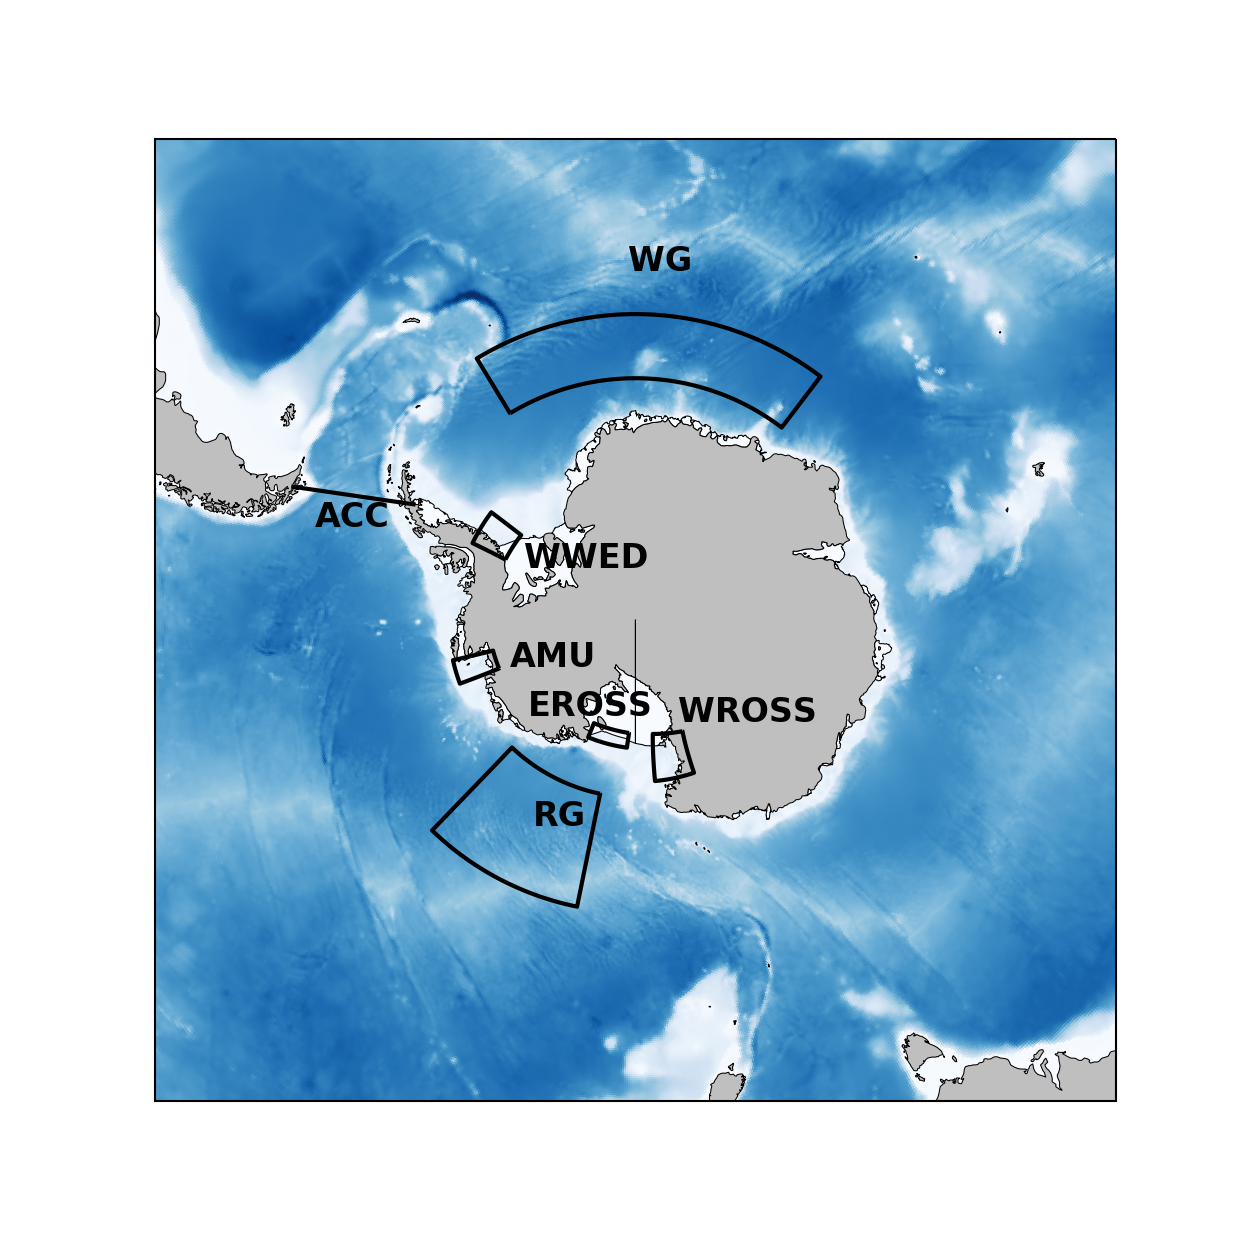
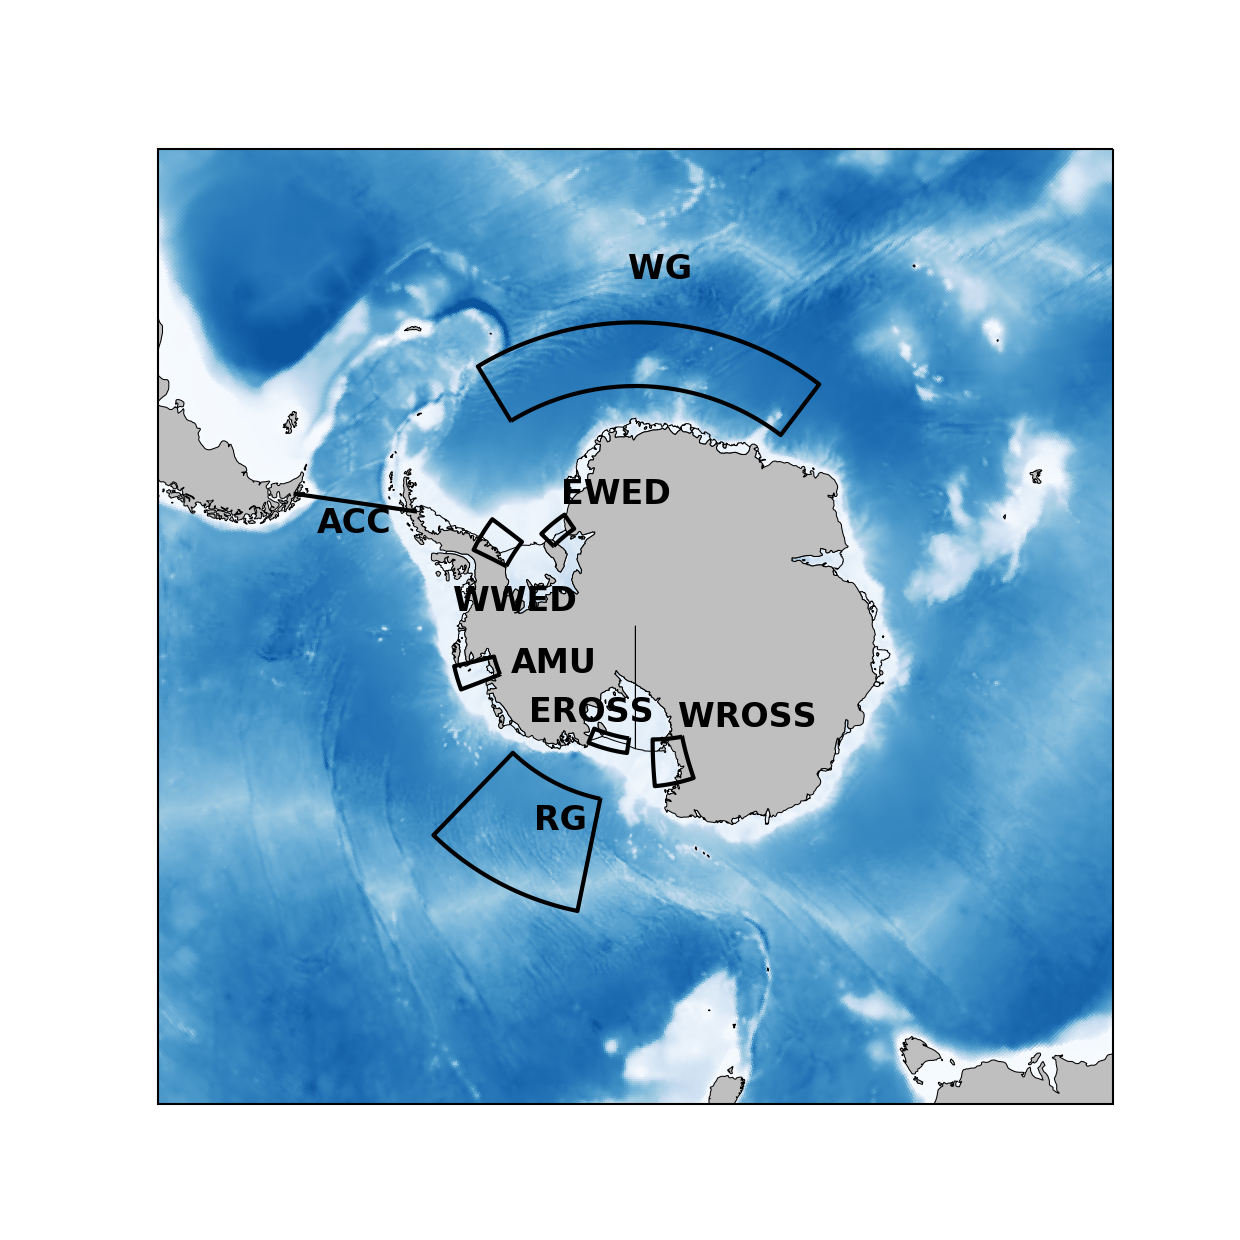
various changes: change target node, obs management, ...

Changed region(s): [[0.1226, 0.0919, 0.9194, 0.8887], [0.4597, 0.7968, 0.5516, 0.8887], [0.2145, 0.521, 0.2452, 0.5516]]

diff --git a/SCRIPT/plot_box_VALSO.py b/SCRIPT/plot_box_VALSO.py
@@ -35,7 +35,7 @@ def add_land_features(ax,cfeature_lst):
         elif cfeat=='bathy_z3000':
             feature = cartopy.feature.NaturalEarthFeature('physical', 'bathymetry_H_3000'          , '10m',facecolor='none',edgecolor='k')
         else:
-            print 'feature unknown : '+cfeat
+            print('feature unknown : '+cfeat)
             sys.exit(42)
         ax.add_feature(feature,linewidth=0.5)
 
@@ -47,28 +47,25 @@ class box(object):
         self.ymax=corner[3]-1
         self.name=name
 
-cfile='/data/cr1/pmathiot/MESH_MASK/bathymetry_eORCA025-GO6.nc'
+cfile='eORCA025.L121-OPM020/mask.nc'
 ncid   = nc.Dataset(cfile)
-bathy = ncid.variables['Bathymetry'][0:-2,:]
-ncid.close()
-cfile='/data/cr1/pmathiot/MESH_MASK/mesh_mask_eORCA025-GO6.nc'
+bathy = ncid.variables['bathy_metry'][:,0:-2,:].squeeze()
 ncid   = nc.Dataset(cfile)
 lon = ncid.variables['nav_lon'][0:-2,:]
 lat = ncid.variables['nav_lat'][0:-2,:]
 delta_lon=np.abs(np.diff(lon))
 j_lst,i_lst=np.nonzero(delta_lon>180)
-print j_lst.shape, i_lst.shape
 for idx in range(0,len(j_lst)):
     lon[j_lst[idx], i_lst[idx]+1:] += 360
-print lon.shape, lat.shape, bathy.shape
 
-box_lst=[None]*6
-box_lst[0]=box([710,741,202,266],'AMU')
-box_lst[1]=box([891,938,204,258],'WWED')
-box_lst[2]=box([347,404,150,233],'WROSS')
-box_lst[3]=box([448,519,152,180],'EROSS')
-box_lst[4]=box([1025,1300,325,380],'WG')
-box_lst[5]=box([476,607 ,254,370],'RG')
+box_lst=[]
+box_lst.append(box([710,741,202,266],'AMU'))
+box_lst.append(box([891,938,204,258],'WWED'))
+box_lst.append(box([347,404,150,233],'WROSS'))
+box_lst.append(box([448,519,152,180],'EROSS'))
+box_lst.append(box([1025,1300,325,380],'WG'))
+box_lst.append(box([476,607 ,254,370],'RG'))
+box_lst.append(box([968,1020,159,190],'EWED'))
 
 mask=np.zeros(shape=bathy.shape)
 for box in box_lst:
@@ -77,10 +74,11 @@ for box in box_lst:
 proj=ccrs.Stereographic(central_latitude=-90.0, central_longitude=0.0)
 XY_lim=[-180, 180, -90, -45]
 plt.figure(figsize=np.array([210, 210]) / 25.4)
-ax=plt.subplot(1, 1, 1, projection=proj, axisbg='0.75')
+ax=plt.subplot(1, 1, 1, projection=proj)
 #ax=plt.subplot(1, 1, 1)
 add_land_features(ax,['isf','lakes','land'])
-print np.max(bathy), np.min(bathy)
+
+print(lon.shape, lat.shape, bathy.shape)
 ax.pcolormesh(lon,lat,bathy,cmap='Blues',vmin=0,vmax=7000,transform=ccrs.PlateCarree(),rasterized=True)
 
 ax.contour(lon,lat,mask,levels=[0.99, 2.0],transform=ccrs.PlateCarree(),colors='k',rasterized=True,linewidths=2)
@@ -89,11 +87,12 @@ ax.plot([lon[420,874], lon[332,899]],[lat[420,874], lat[332,899]],transform=ccrs
 ax.text(lon[420,874]-5,lat[420,874]-3,'ACC',transform=ccrs.PlateCarree(),color='k',fontweight='bold',fontsize=16)
 
 box=box_lst[0]; ax.text(lon[box.ymin,box.xmin]-1, lat[box.ymin,box.xmin]-1,box.name,transform=ccrs.PlateCarree(),color='k',fontweight='bold',fontsize=16)
-box=box_lst[1]; ax.text(lon[box.ymin,box.xmin], lat[box.ymin,box.xmin]-2,box.name,transform=ccrs.PlateCarree(),color='k',fontweight='bold',fontsize=16)
+box=box_lst[1]; ax.text(lon[box.ymin,box.xmin]-20, lat[box.ymin,box.xmin]+4,box.name,transform=ccrs.PlateCarree(),color='k',fontweight='bold',fontsize=16)
 box=box_lst[2]; ax.text(lon[box.ymin,box.xmin], lat[box.ymin,box.xmin]-1,box.name,transform=ccrs.PlateCarree(),color='k',fontweight='bold',fontsize=16)
 box=box_lst[3]; ax.text(lon[box.ymin,box.xmin]+45, lat[box.ymin,box.xmin]+3,box.name,transform=ccrs.PlateCarree(),color='k',fontweight='bold',fontsize=16)
 box=box_lst[4]; ax.text(lon[box.ymin,box.xmin]+30, lat[box.ymin,box.xmin]+10,box.name,transform=ccrs.PlateCarree(),color='k',fontweight='bold',fontsize=16)
 box=box_lst[5]; ax.text(lon[box.ymin,box.xmin]+15, lat[box.ymin,box.xmin]+5,box.name,transform=ccrs.PlateCarree(),color='k',fontweight='bold',fontsize=16)
+box=box_lst[6]; ax.text(lon[box.ymax,box.xmax]+1, lat[box.ymax,box.xmax]+1,box.name,transform=ccrs.PlateCarree(),color='k',fontweight='bold',fontsize=16)
 
 #pcol=ax.pcolormesh(lon,lat,bathy)
 ax.set_extent(XY_lim, ccrs.PlateCarree())

diff --git a/SCRIPT/plot_time_series.py b/SCRIPT/plot_time_series.py
@@ -30,6 +30,7 @@ class run(object):
             try:
                 ncid    = nc.Dataset(cf)
                 ncvtime = ncid.variables[ctime]
+
                 if 'units' in ncvtime.ncattrs():
                     cunits = ncvtime.units
                 else:
@@ -54,7 +55,7 @@ class run(object):
                         timeidx[itime] = np.datetime64(time[itime],'us')
                     else:
                         timeidx[itime] = np.datetime64(time,'us')
-        
+       
                 # build series
                 cnam=get_name(cvar,ncid.variables.keys())
                 df[kf] = pd.Series(ncid.variables[cnam][:].squeeze()*sf, index = timeidx, name = self.name)
@@ -302,17 +303,20 @@ def main():
         nlabel=5
         ndays=(maxtime-mintime).days
         nyear=ndays/365
-        if nyear < 10:
+        if nyear < 9:
             nyt=1
-        elif 10<=nyear<50:
+        elif 6<= nyear < 15:
+            nyt=2
+        elif 15<=nyear<41:
             nyt=5
-        elif 50<=nyear<100:
+        elif 41<=nyear<100:
             nyt=10
         else:
             nyt=100
         nmt=ts_lst[irun].index[0].to_pydatetime().date().month
         ndt=ts_lst[irun].index[0].to_pydatetime().date().day
          
+        print(ndays, nyear,nyt)
         ax[ivar].xaxis.set_major_locator(mdates.YearLocator(nyt,month=1,day=1))
         ax[ivar].tick_params(axis='both', labelsize=16)
         if (ivar != nvar-1):
